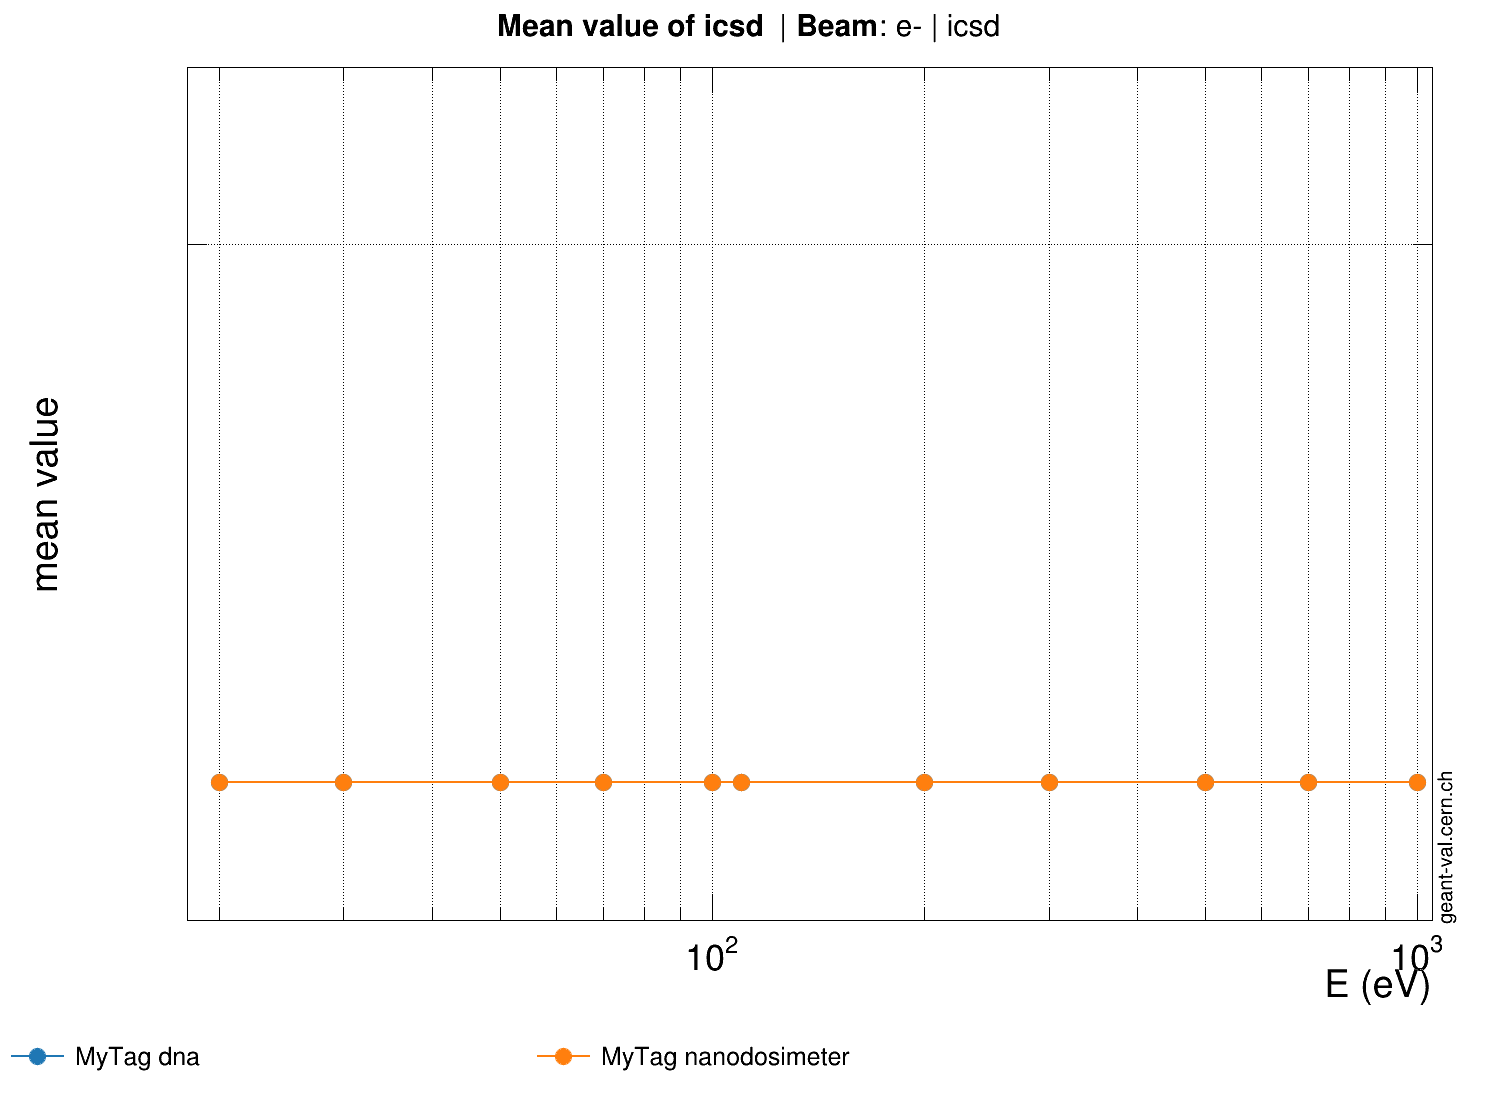
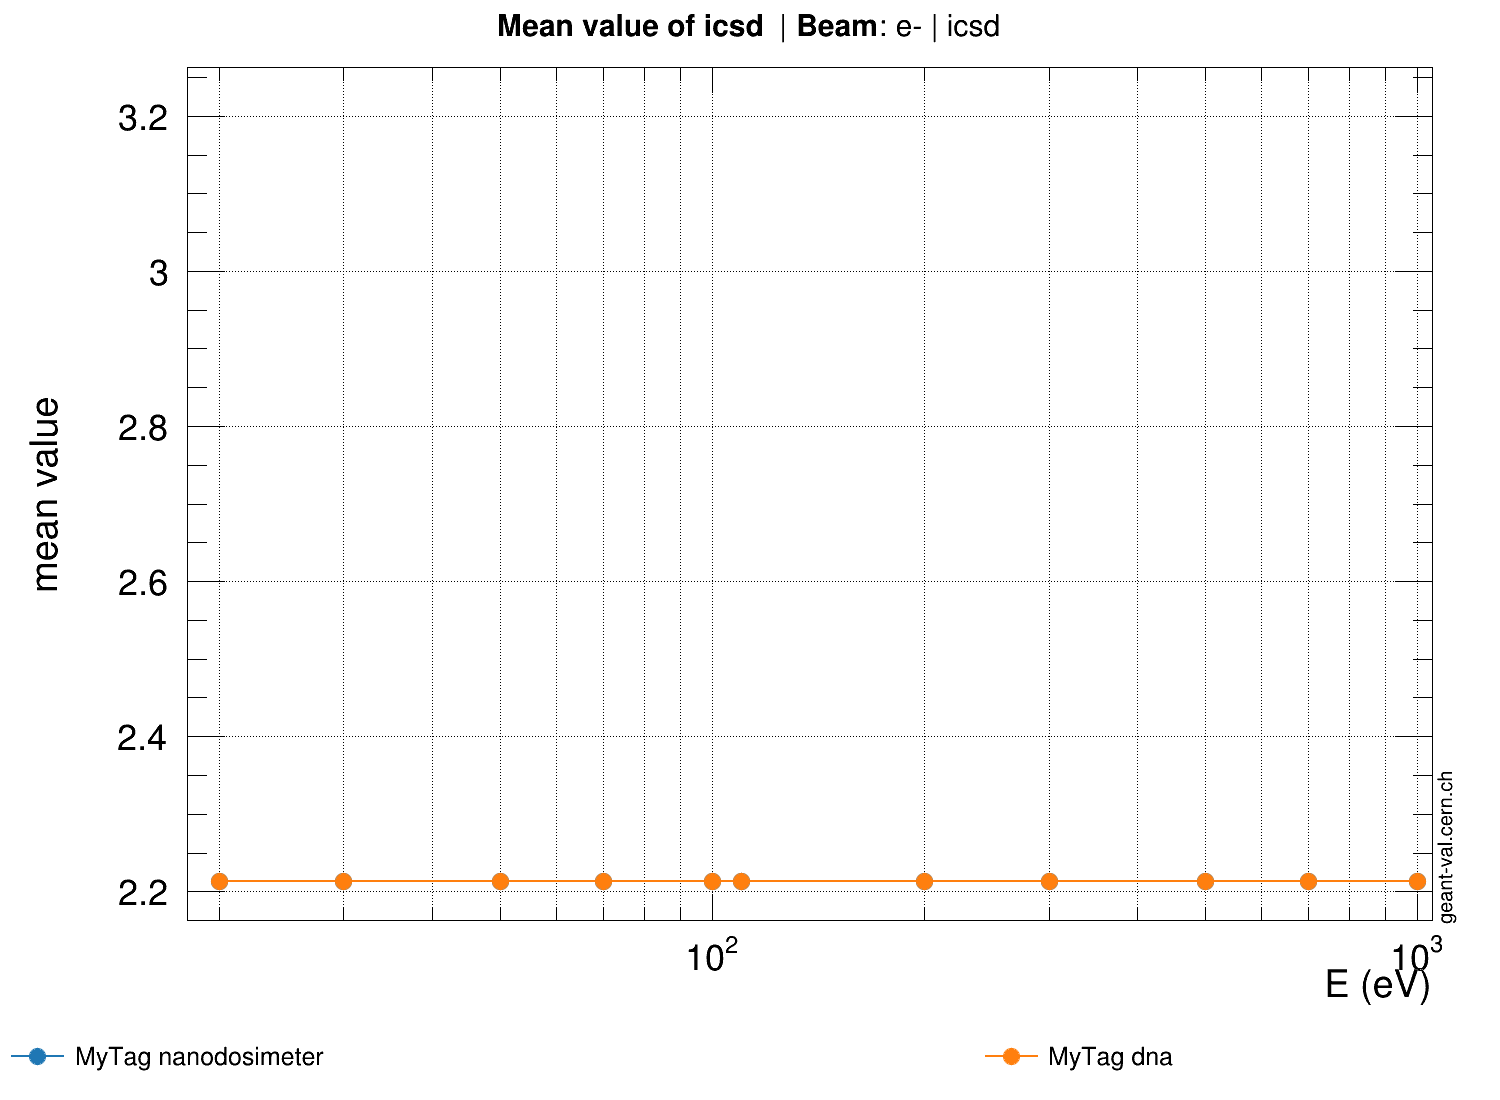
icsd/electron.conf/MyTag : mer. mars 22 16:04:31 CET 2023

diff --git a/assets/OUTPUTJSON/geant4/MyTag/x86_64/icsd/electron.conf.c b/assets/OUTPUTJSON/geant4/MyTag/x86_64/icsd/electron.conf.c
@@ -118,3 +118,123 @@ double gvp_id-1_yerrors[11] = {
   0,
   0
 };
+// Tool:               GEANT4
+// Version:            MyTag
+// Model:              icsd
+// Observable:         mean value of icsd
+// Target:             nanodosimeter
+// Beam Particle:      e-
+// Secondary Particle: None
+
+double gvp_id-1_x[11] = {
+  20,
+  30,
+  50,
+  70,
+  100,
+  110,
+  200,
+  300,
+  500,
+  700,
+  1000
+};
+double gvp_id-1_y[11] = {
+  2.21333,
+  2.21333,
+  2.21333,
+  2.21333,
+  2.21333,
+  2.21333,
+  2.21333,
+  2.21333,
+  2.21333,
+  2.21333,
+  2.21333
+};
+double gvp_id-1_xerrors[11] = {
+  0,
+  0,
+  0,
+  0,
+  0,
+  0,
+  0,
+  0,
+  0,
+  0,
+  0
+};
+double gvp_id-1_yerrors[11] = {
+  0,
+  0,
+  0,
+  0,
+  0,
+  0,
+  0,
+  0,
+  0,
+  0,
+  0
+};
+// Tool:               GEANT4
+// Version:            MyTag
+// Model:              icsd
+// Observable:         mean value of icsd
+// Target:             dna
+// Beam Particle:      e-
+// Secondary Particle: None
+
+double gvp_id-1_x[11] = {
+  20,
+  30,
+  50,
+  70,
+  100,
+  110,
+  200,
+  300,
+  500,
+  700,
+  1000
+};
+double gvp_id-1_y[11] = {
+  2.21333,
+  2.21333,
+  2.21333,
+  2.21333,
+  2.21333,
+  2.21333,
+  2.21333,
+  2.21333,
+  2.21333,
+  2.21333,
+  2.21333
+};
+double gvp_id-1_xerrors[11] = {
+  0,
+  0,
+  0,
+  0,
+  0,
+  0,
+  0,
+  0,
+  0,
+  0,
+  0
+};
+double gvp_id-1_yerrors[11] = {
+  0,
+  0,
+  0,
+  0,
+  0,
+  0,
+  0,
+  0,
+  0,
+  0,
+  0
+};
